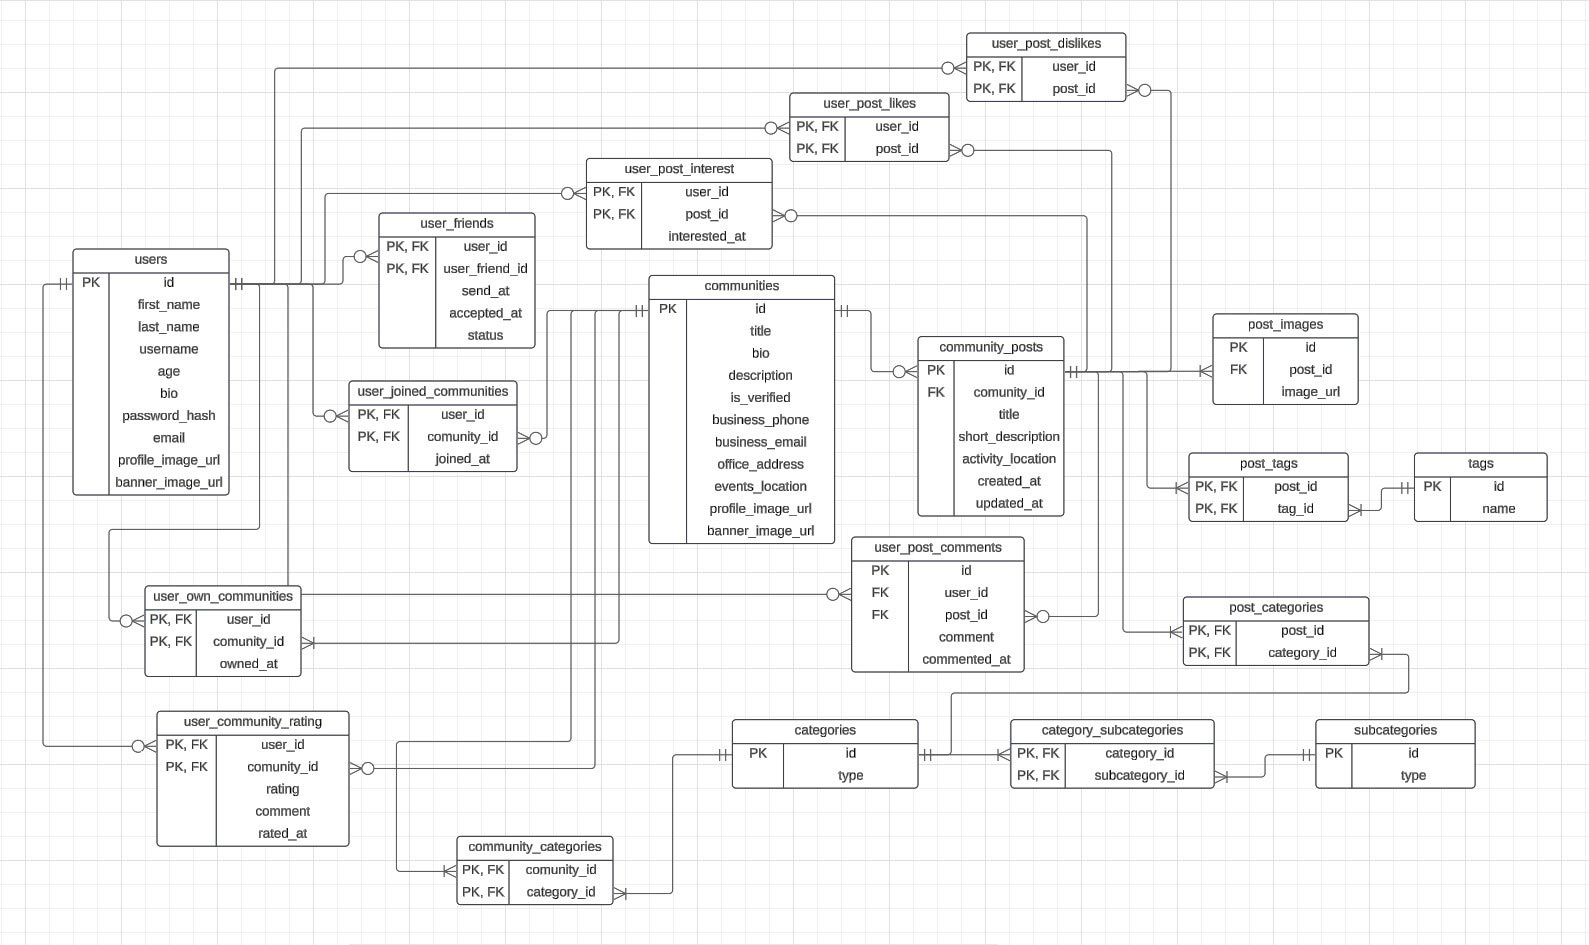
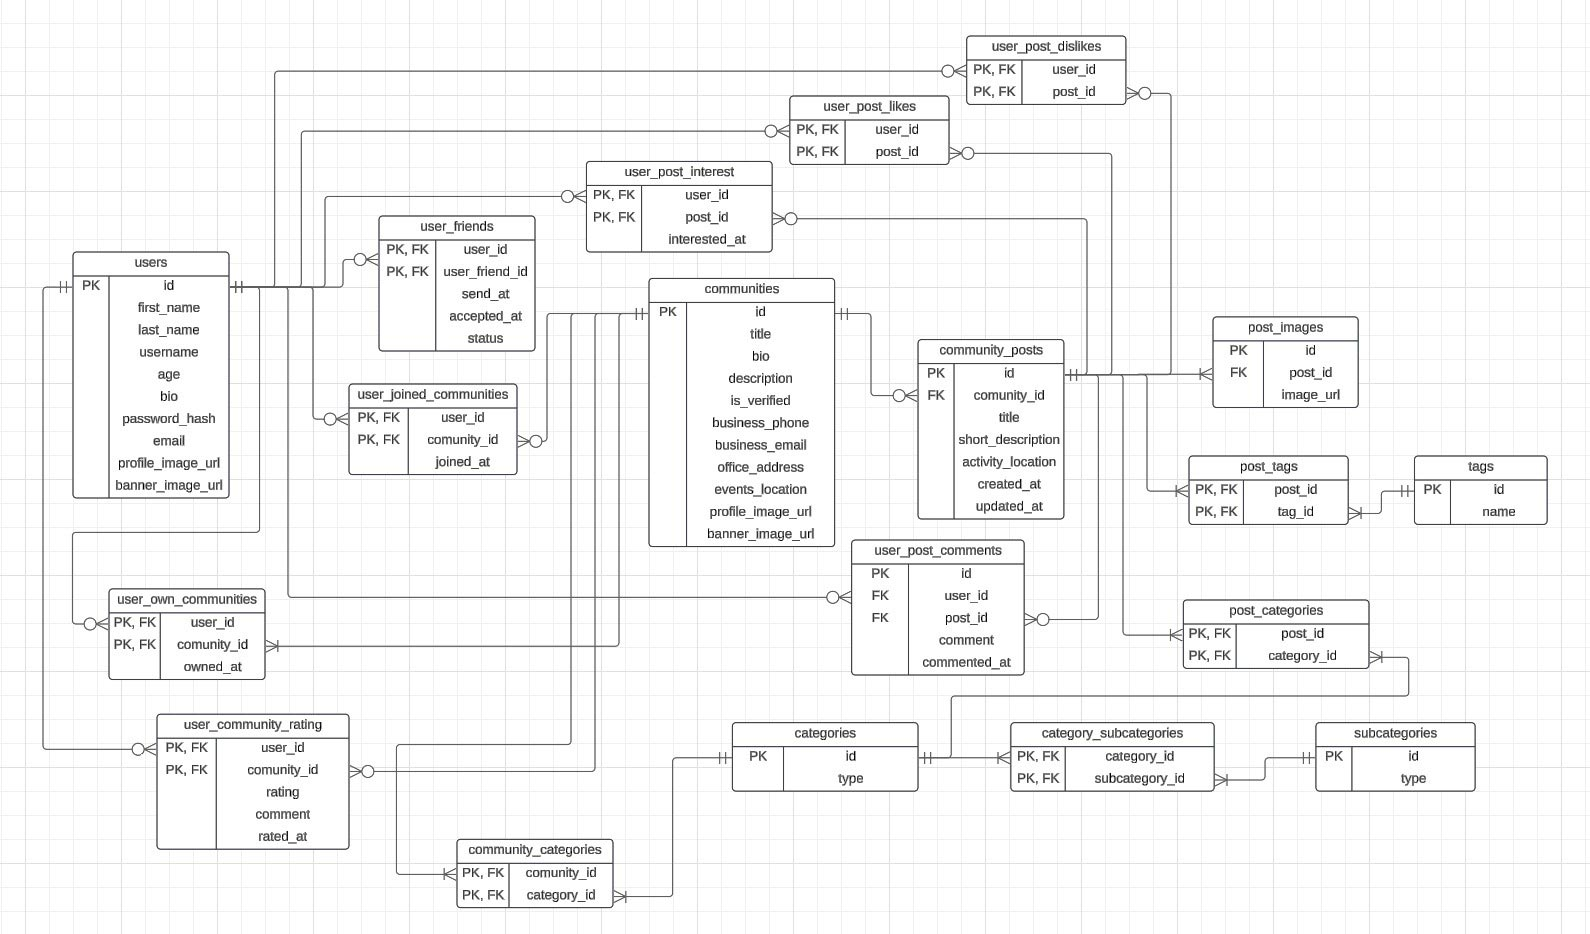
Updated ER diagram image.

diff --git a/DESIGN.md b/DESIGN.md
@@ -261,9 +261,9 @@ This table is created through the `log_user_inserts`, `log_user_updates`, and `l
 
 The below entity relationship diagram describes the relationships among the entities in the database.
 
-![Entity Relationship Diagram for FindIt, illustrating the relationships between various entities in the database schema.](https://i.imgur.com/sd3K0Zl.jpeg)
+![Entity Relationship Diagram for FindIt, illustrating the relationships between various entities in the database schema.](https://i.imgur.com/gtdIKYa.jpeg)
 
-It’s important to keep in mind that only communities can upload posts. Additionally, for a community to exist, it must have at least one owner.
+It’s important to keep in mind that only communities can upload and manage posts. Additionally, for a community to exist, it must have at least one owner. However, a user may not own any communities.
 
 ## Optimizations
 

diff --git a/README.md b/README.md
@@ -2,6 +2,6 @@
 
 **FindIt's** database is built using **MySQL**, a powerful relational database management system that supports the application's data storage and management needs. An **Entity-Relationship (ER) diagram** is also provided for a visual representation of the database structure.
 
-![Entity Relationship Diagram for FindIt, illustrating the relationships between various entities in the database schema.](https://i.imgur.com/sd3K0Zl.jpeg)
+![Entity Relationship Diagram for FindIt, illustrating the relationships between various entities in the database schema.](https://i.imgur.com/gtdIKYa.jpeg)
 
 For a more detailed understanding of the database design, please refer to the [design.md](https://github.com/AngelValentino/FindIt/blob/main/DESIGN.md).
